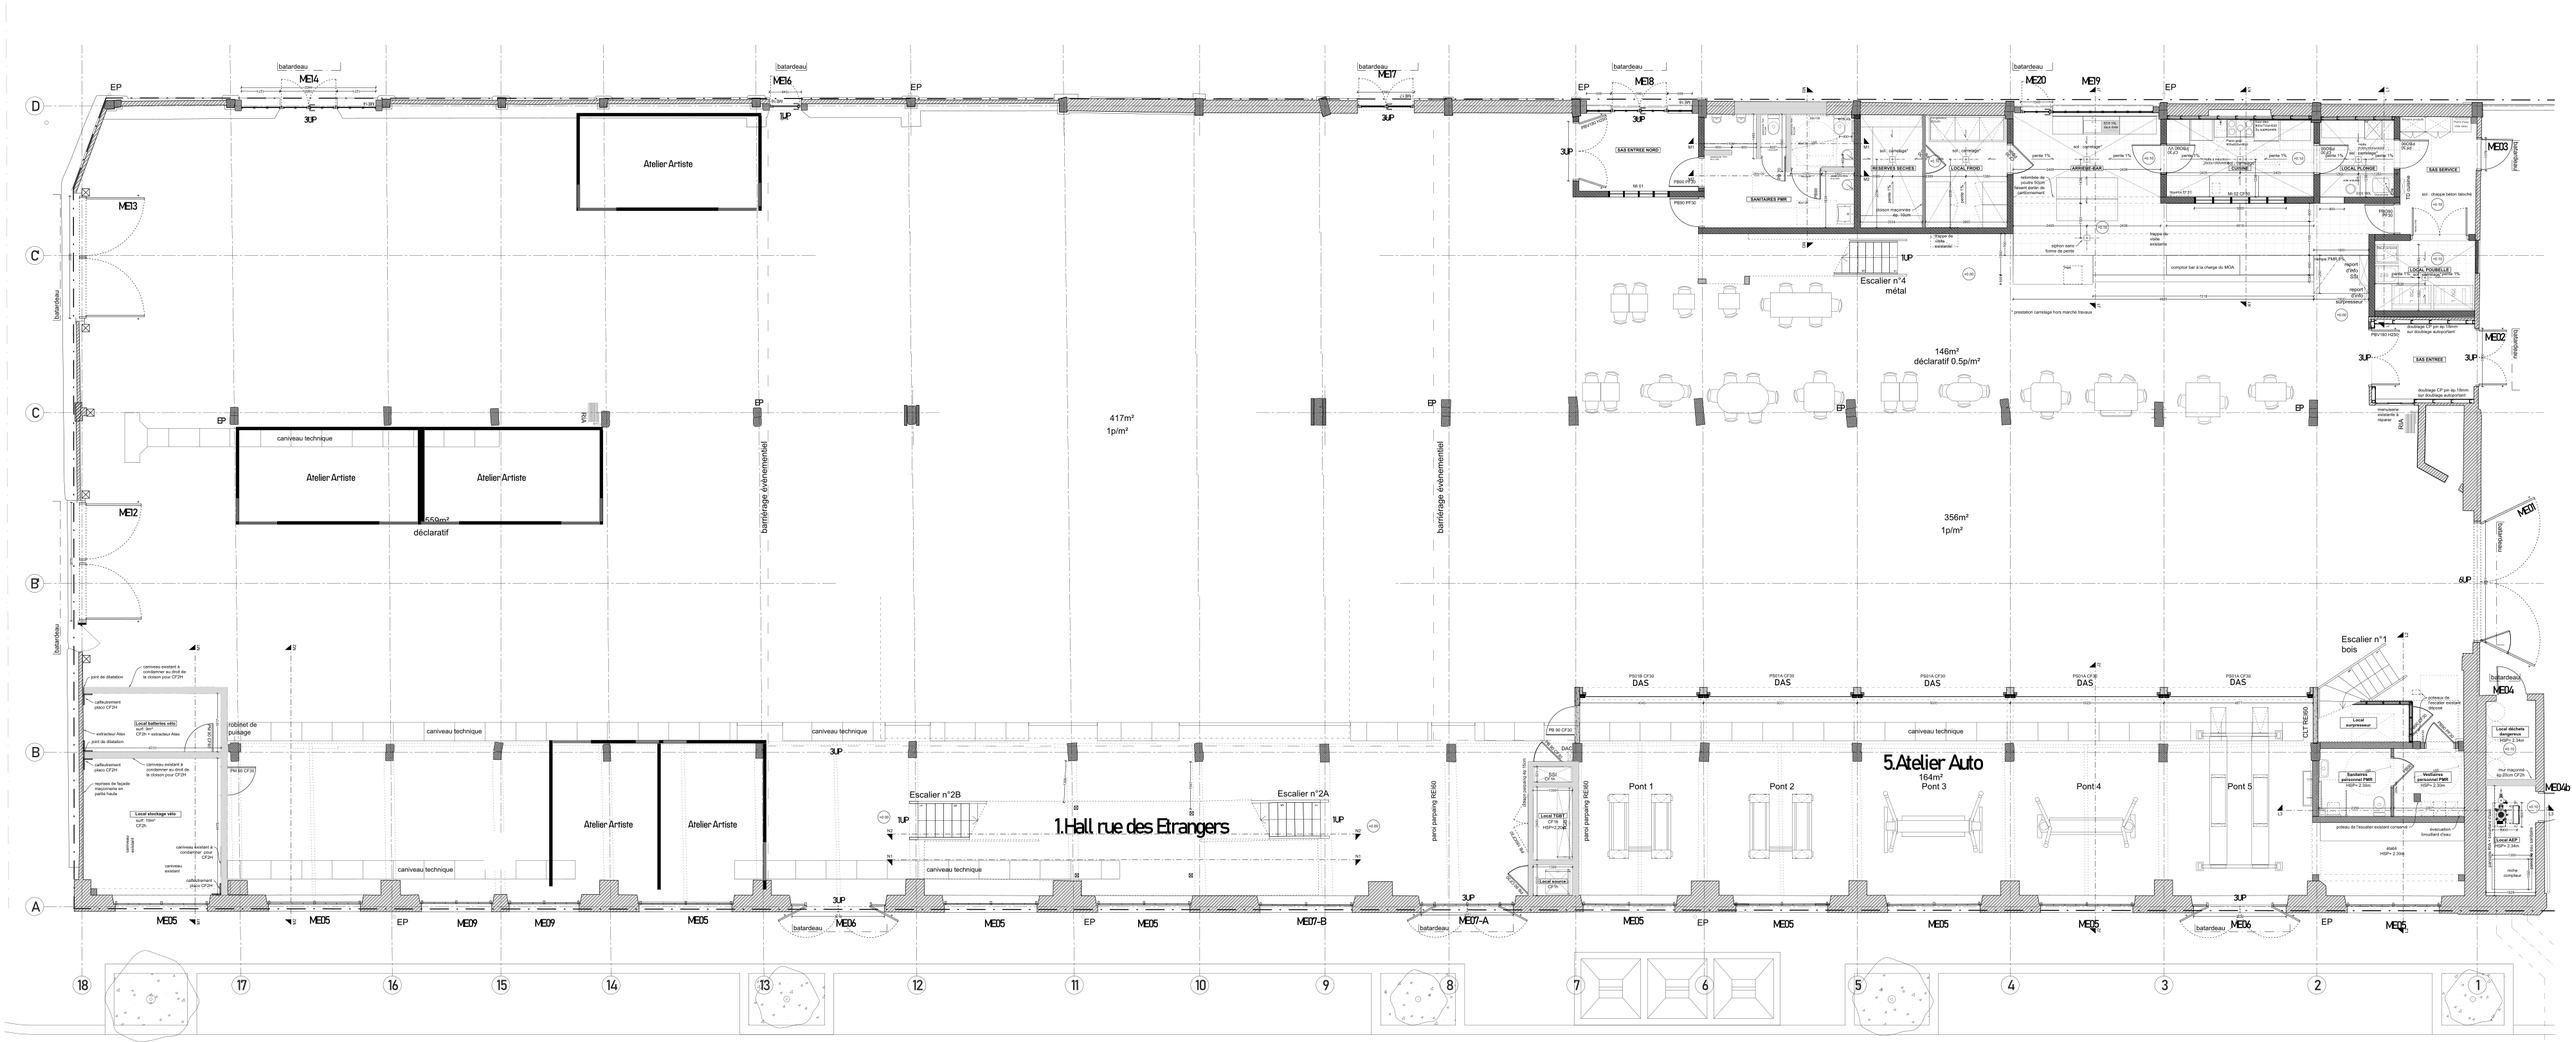
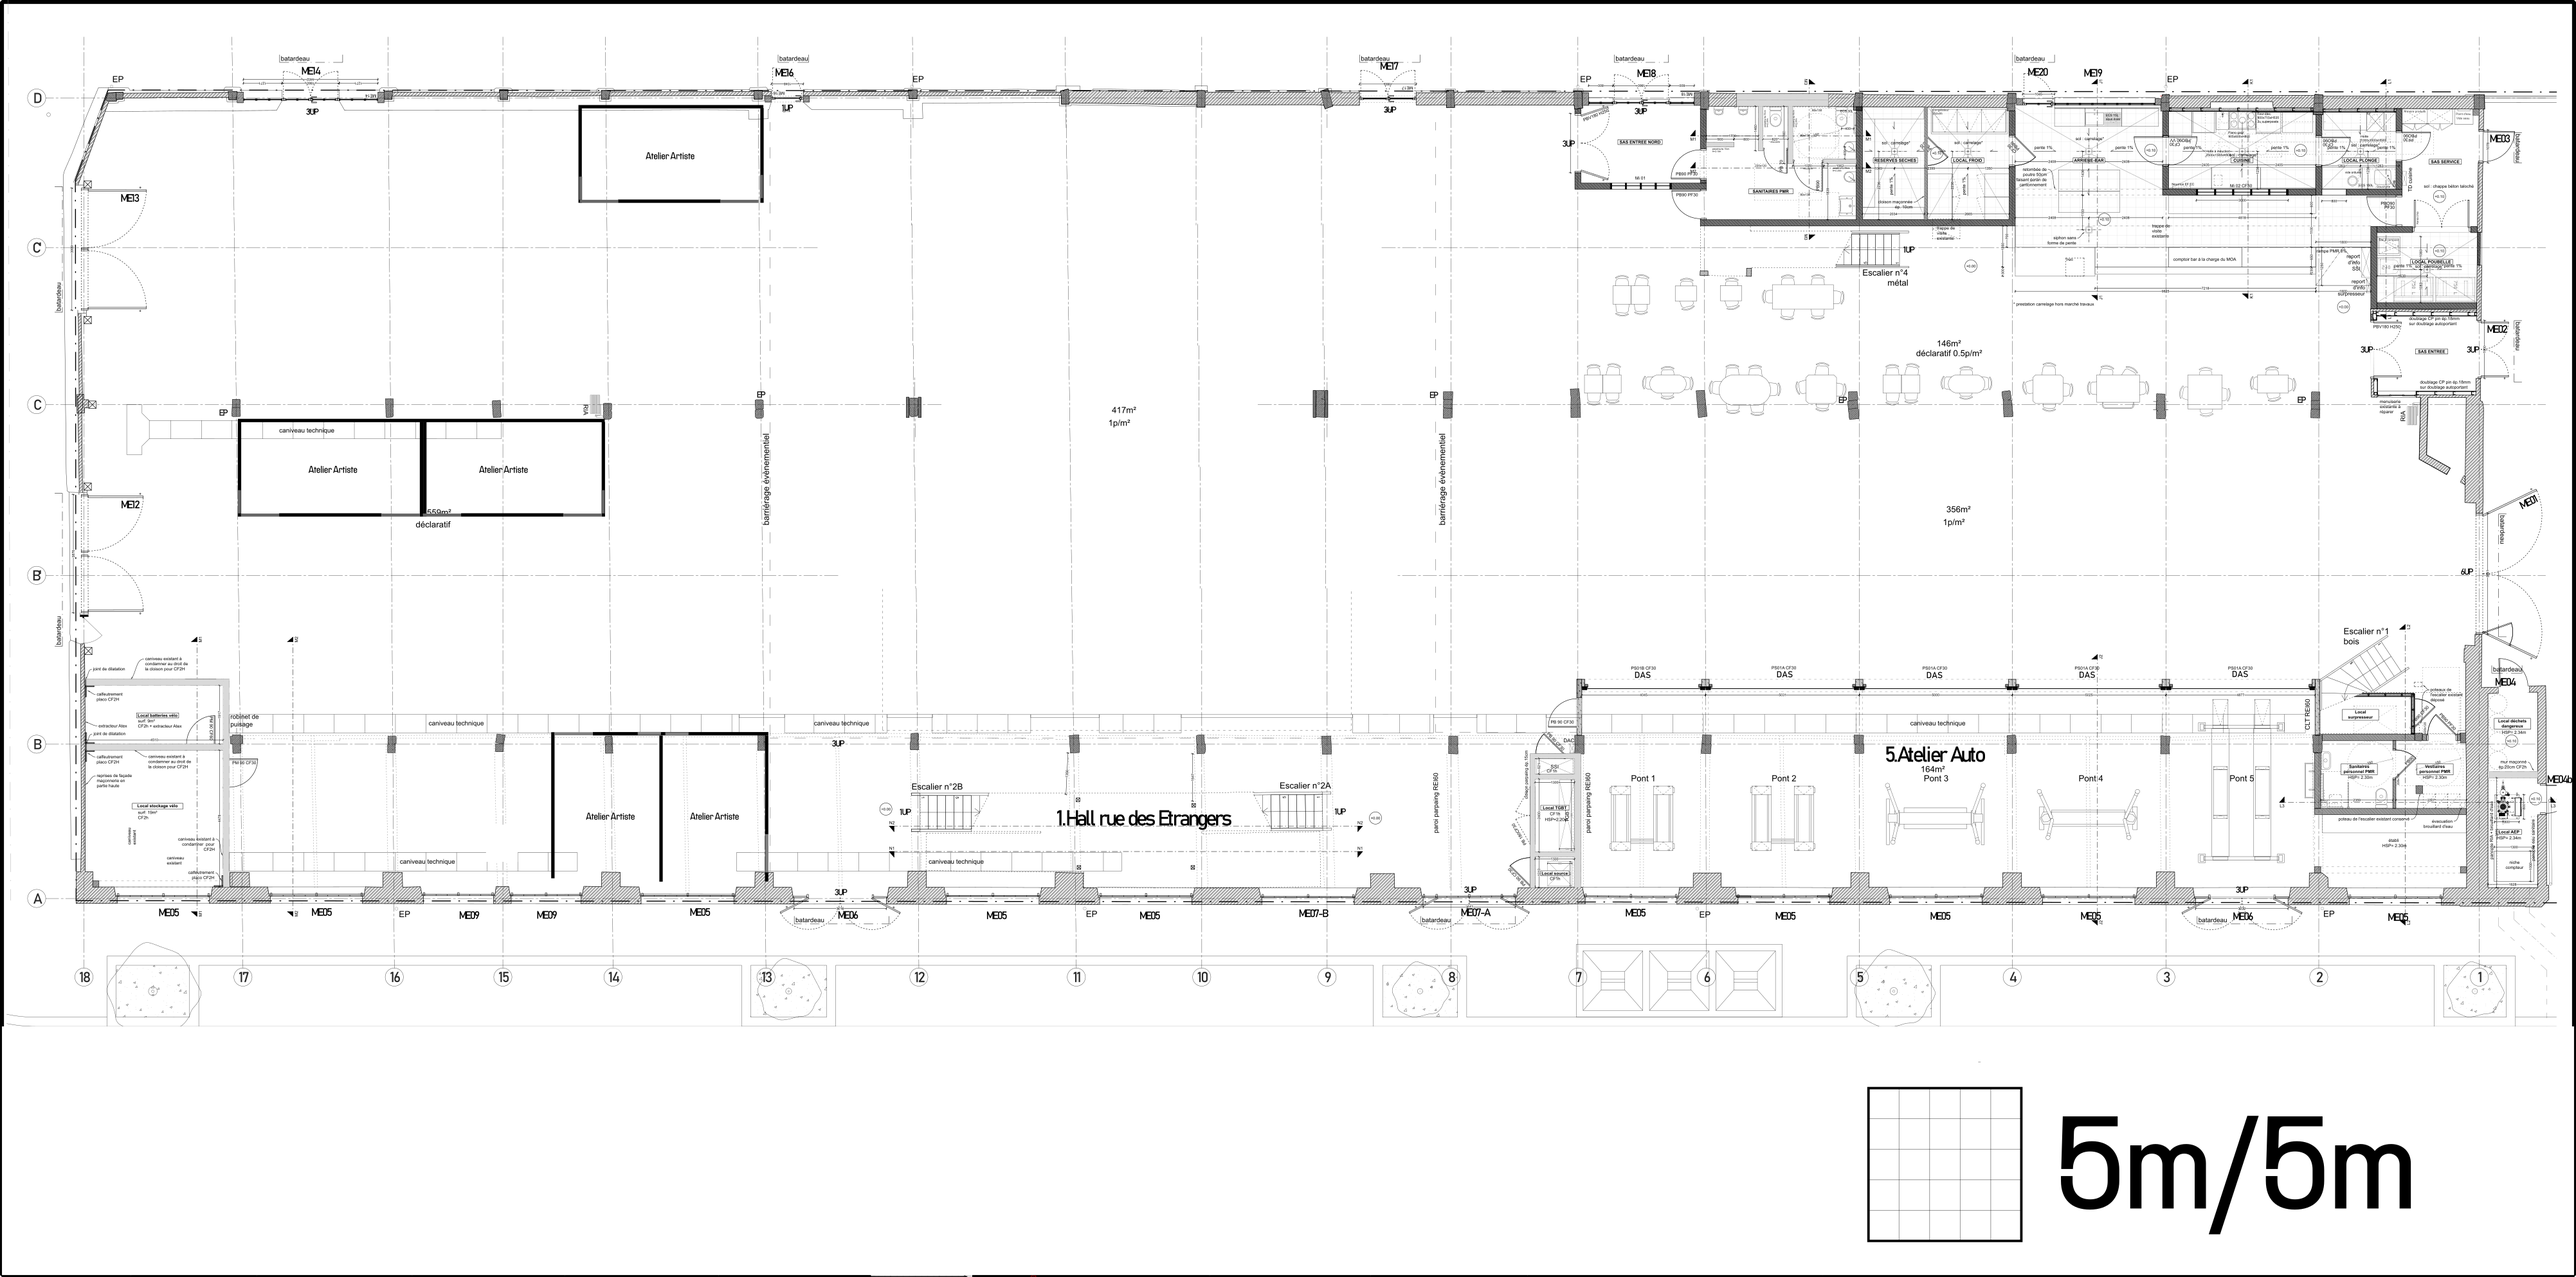
Nouveau fond de plan (4006×1987), affichage sans rognage ni déformation
- fond_plan.png remplacé par la nouvelle version
- viewBox aux proportions exactes de l'image (1000×495.75)
- fond affiché en preserveAspectRatio meet : ajustement complet garanti, aucun rognage ni déformation quelle que soit la fenêtre
- bump du paramètre de cache (v4)

diff --git a/plan_editor.js b/plan_editor.js
@@ -3,7 +3,7 @@
 (function () {
   var NS = "http://www.w3.org/2000/svg";
   var svg = document.getElementById("plan");
-  var W = 1000, H = 405; // proportions du fond de plan définitif (4000×1621)
+  var W = 1000, H = 495.75; // proportions exactes du fond de plan définitif (4006×1987), jamais rogné ni déformé
   var YEAR = new Date().getFullYear();
   var dayIndex = dayOfYear(new Date());
   // jour initial depuis l'URL (?date=YYYY-MM-DD ou plan/YYYY-MM-DD via rewrite)
@@ -193,7 +193,7 @@
     img.setAttribute("href", "./fond_plan.png");
     img.setAttribute("x", 0); img.setAttribute("y", 0);
     img.setAttribute("width", W); img.setAttribute("height", H);
-    img.setAttribute("preserveAspectRatio", "none");
+    img.setAttribute("preserveAspectRatio", "xMidYMid meet");
     svg.appendChild(img);
   }
 

diff --git a/plan.php b/plan.php
@@ -97,11 +97,11 @@ if (isset($_GET['date']) && preg_match('/^\d{4}-\d{2}-\d{2}$/', $_GET['date']) &
 
 <div id="scene">
   <div id="svgWrap">
-    <svg id="plan" xmlns="http://www.w3.org/2000/svg" viewBox="0 0 1000 405" preserveAspectRatio="xMidYMid meet"></svg>
+    <svg id="plan" xmlns="http://www.w3.org/2000/svg" viewBox="0 0 1000 495.75" preserveAspectRatio="xMidYMid meet"></svg>
   </div>
 </div>
 
 <script>window.PLAN_INIT_DATE = <?= json_encode($init_date) ?>;</script>
-<script src="./plan_editor.js?v=3"></script>
+<script src="./plan_editor.js?v=4"></script>
 </body>
 </html>
